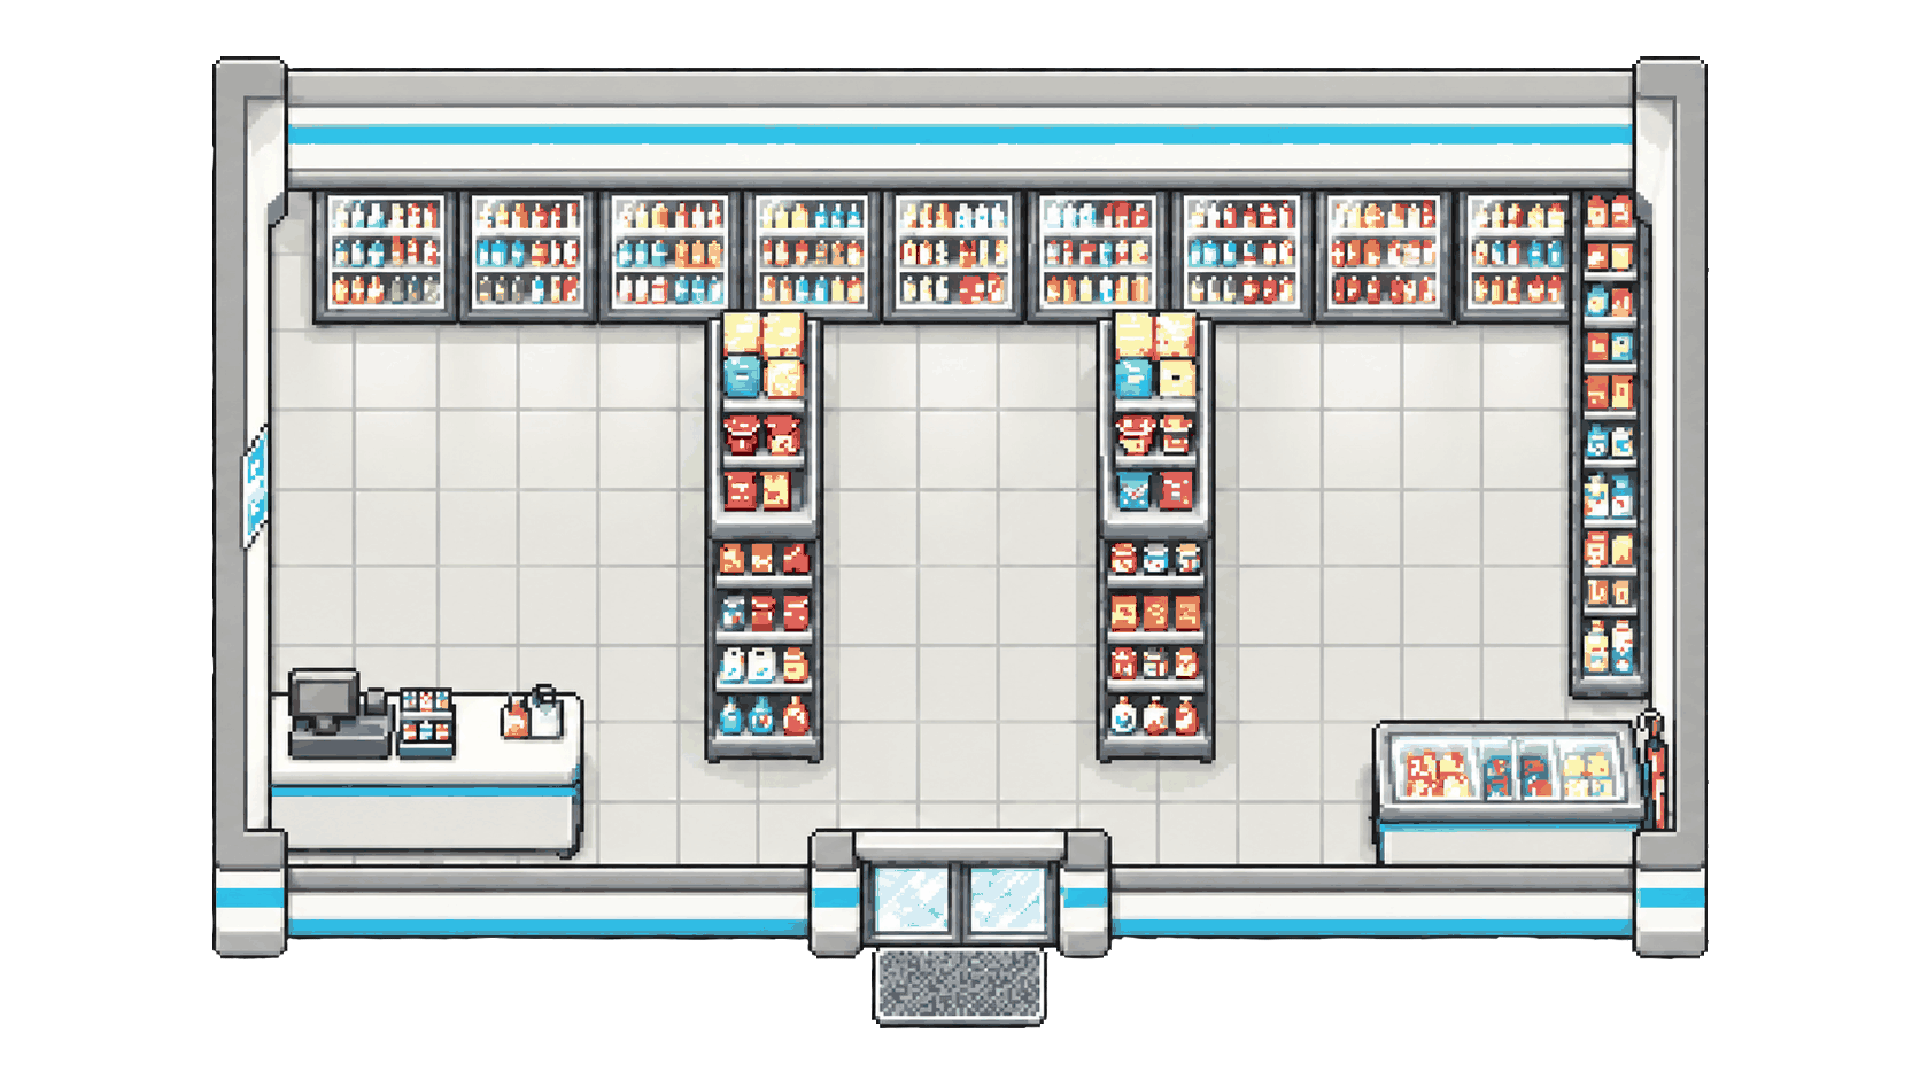
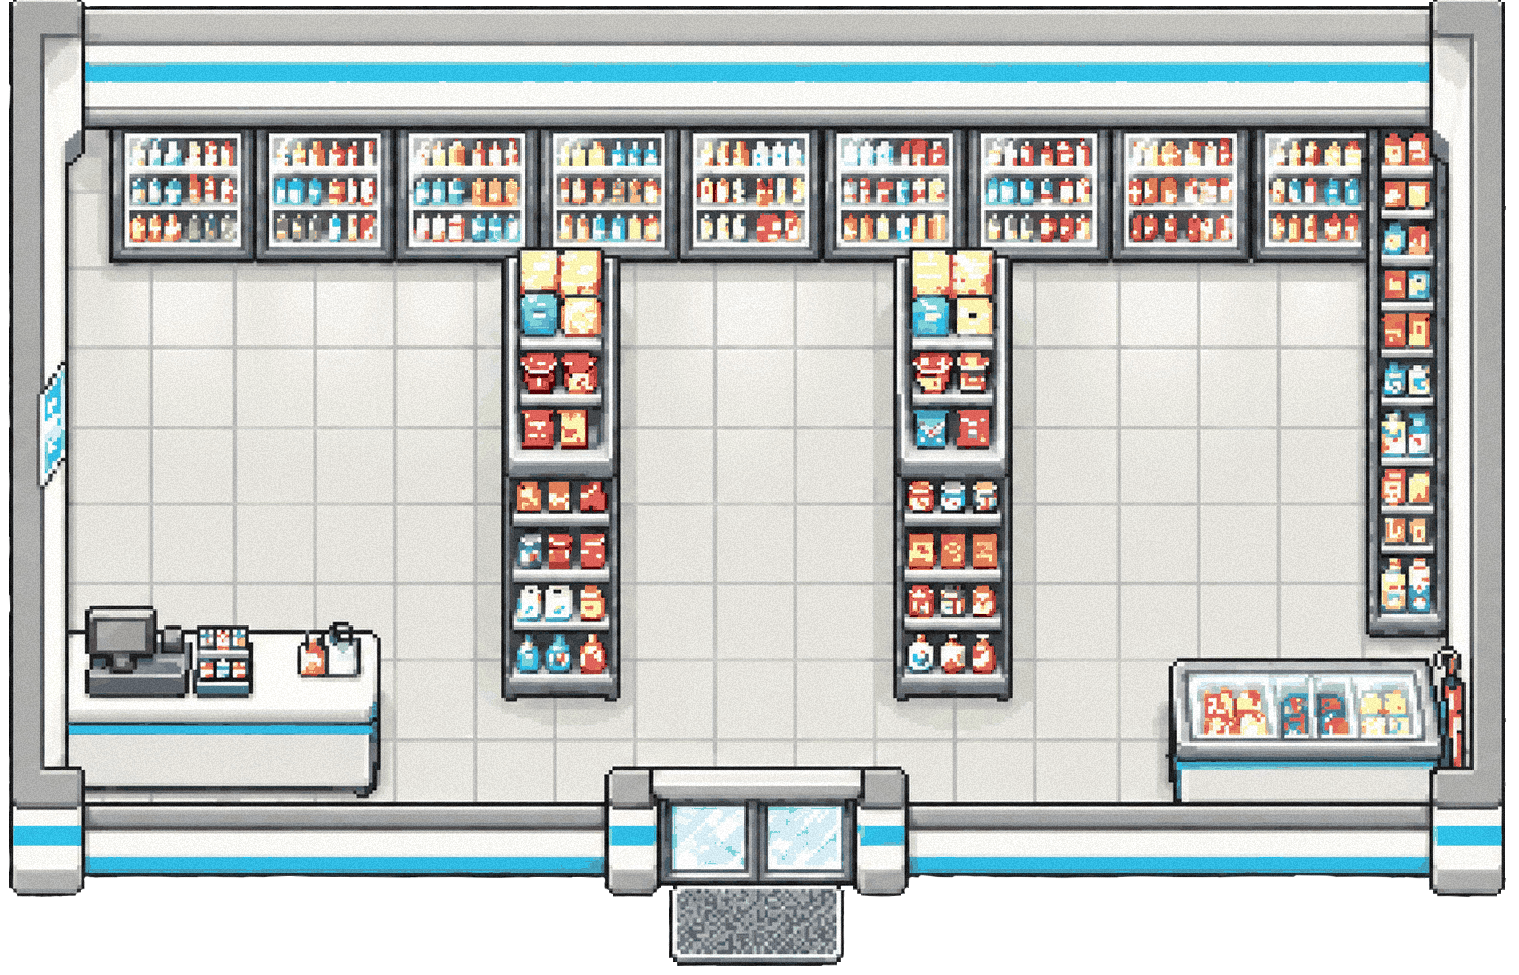
feat: add convenience store movement and in-game time

diff --git a/client/src/scenes/ConvenienceStoreScene.ts b/client/src/scenes/ConvenienceStoreScene.ts
@@ -2,8 +2,121 @@ import Phaser from 'phaser';
 import { SceneKey } from '../types';
 import { Player } from '../entities/Player';
 
+interface BlockedArea {
+  name: string;
+  left: number;
+  top: number;
+  width: number;
+  height: number;
+}
+
+const SOURCE_WIDTH = 1920;
+const SOURCE_HEIGHT = 1080;
+
+const BLOCKED_AREAS: BlockedArea[] = [
+  // 위쪽 냉장고 / 벽
+  {
+    name: 'top-fridge-wall',
+    left: 80,
+    top: 40,
+    width: 1760,
+    height: 220,
+  },
+
+  // 왼쪽 계산대
+  {
+    name: 'checkout-counter',
+    left: 65,
+    top: 675,
+    width: 430,
+    height: 220,
+  },
+
+  // 가운데 왼쪽 진열대
+  {
+    name: 'center-shelf-left',
+    left: 635,
+    top: 290,
+    width: 160,
+    height: 430,
+  },
+
+  // 가운데 오른쪽 진열대
+  {
+    name: 'center-shelf-right',
+    left: 1120,
+    top: 290,
+    width: 160,
+    height: 430,
+  },
+
+  // 오른쪽 벽 진열대
+  {
+    name: 'right-wall-shelf',
+    left: 1740,
+    top: 180,
+    width: 130,
+    height: 520,
+  },
+
+  // 오른쪽 냉동고
+  {
+    name: 'right-freezer',
+    left: 1470,
+    top: 730,
+    width: 400,
+    height: 170,
+  },
+
+  // 왼쪽 벽
+  {
+    name: 'left-wall',
+    left: 0,
+    top: 0,
+    width: 70,
+    height: 1080,
+  },
+
+  // 오른쪽 벽
+  {
+    name: 'right-wall',
+    left: 1870,
+    top: 0,
+    width: 50,
+    height: 1080,
+  },
+
+  // 아래쪽 벽 - 입구 왼쪽
+  {
+    name: 'bottom-wall-left',
+    left: 0,
+    top: 890,
+    width: 780,
+    height: 160,
+  },
+
+  // 아래쪽 벽 - 입구 오른쪽
+  {
+    name: 'bottom-wall-right',
+    left: 1110,
+    top: 890,
+    width: 810,
+    height: 160,
+  },
+
+  // 출입문 아래쪽 경계
+  {
+    name: 'entrance-bottom',
+    left: 770,
+    top: 850,
+    width: 380,
+    height: 200,
+  },
+];
+
 export class ConvenienceStoreScene extends Phaser.Scene {
   private player!: Player;
+  private collisionAreas: Phaser.GameObjects.Rectangle[] = [];
 
   constructor() {
     super(SceneKey.ConvenienceStore);
@@ -24,14 +137,73 @@ export class ConvenienceStoreScene extends Phaser.Scene {
     // 플레이어 생성
     this.player = new Player(
       this,
-      width / 2,
-      height - 180,
+      960,
+      720,
       'player',
-      0.045
+      0.08,
+      450
+    );
+
+    // 충돌 영역 생성
+    this.createCollisionAreas(
+      width,
+      height
     );
   }
 
   update(): void {
     this.player.update();
+  }
+
+  private createCollisionAreas(
+    worldWidth: number,
+    worldHeight: number
+  ): void {
+    const scaleX =
+      worldWidth / SOURCE_WIDTH;
+
+    const scaleY =
+      worldHeight / SOURCE_HEIGHT;
+
+    this.collisionAreas =
+      BLOCKED_AREAS.map((area) => {
+        const width =
+          area.width * scaleX;
+
+        const height =
+          area.height * scaleY;
+
+        const blocker = this.add
+          .rectangle(
+            (area.left + area.width / 2) * scaleX,
+            (area.top + area.height / 2) * scaleY,
+            width,
+            height,
+
+            // 충돌 영역 색상
+            0xff1744,
+
+            // 보이지 않게
+            0
+          )
+          .setDepth(5000)
+          .setName(
+            `blocked-${area.name}`
+          );
+
+        // 고정 충돌체 등록
+        this.physics.add.existing(
+          blocker,
+          true
+        );
+
+        // 플레이어와 충돌
+        this.physics.add.collider(
+          this.player,
+          blocker
+        );
+
+        return blocker;
+      });
   }
 }

diff --git a/client/src/entities/Player.ts b/client/src/entities/Player.ts
@@ -22,10 +22,13 @@ export class Player extends Phaser.Physics.Arcade.Sprite {
     x: number,
     y: number,
     texture: string,
-    scale: number
+    scale: number,
+    speed: number = 300
 
   ) {
     super(scene, x, y, texture);
+
+    this.speed = speed;
 
     scene.add.existing(this);
     scene.physics.add.existing(this);
